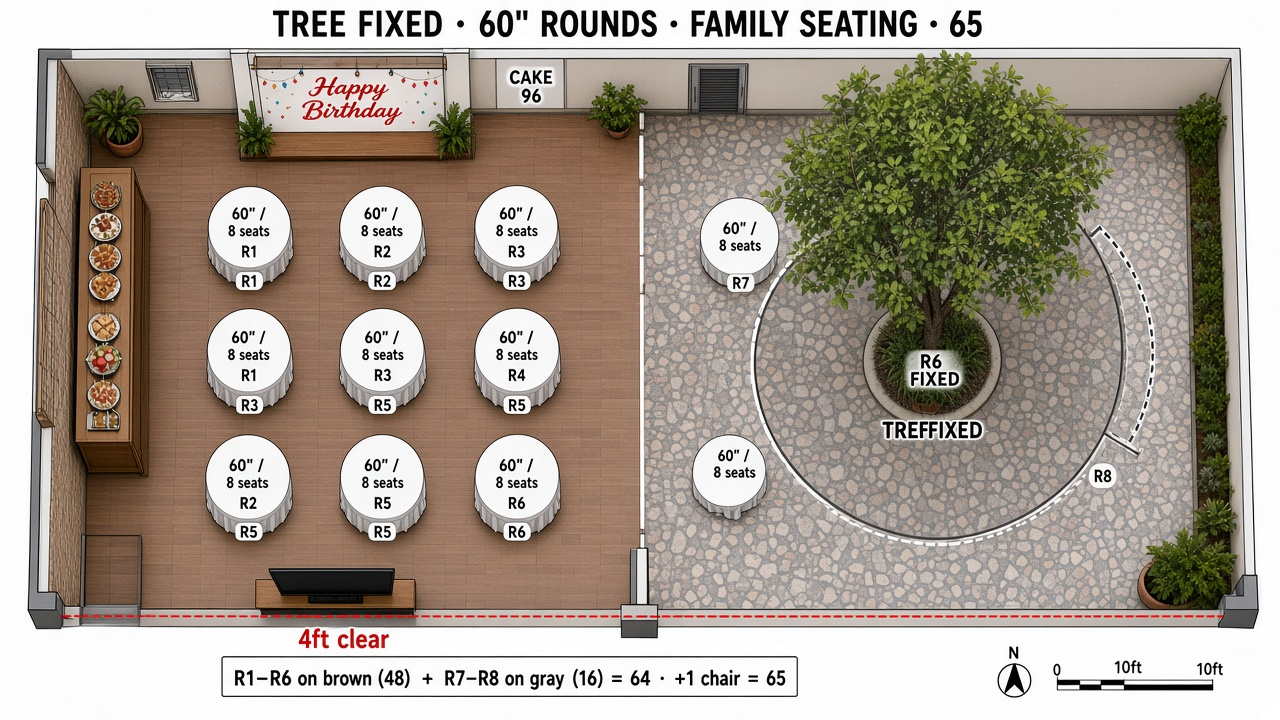
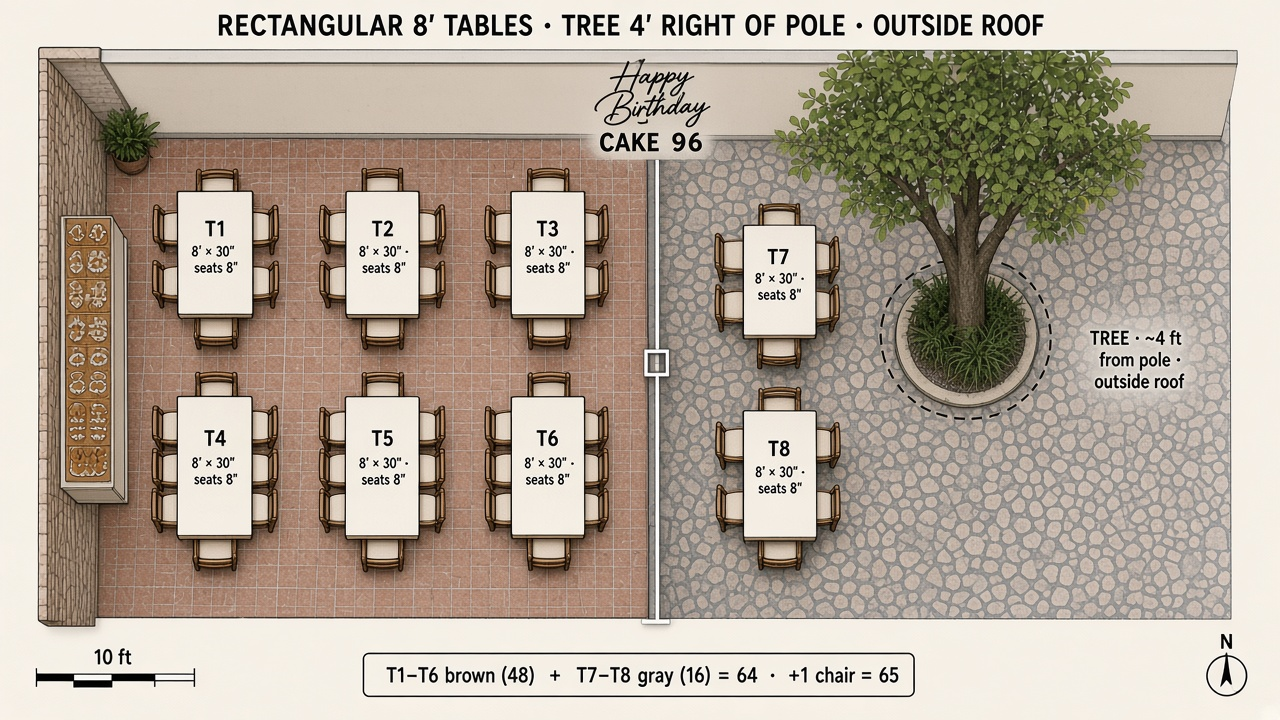
Switch to 8ft rectangular tables; fix tree outside roof
Place the tree ~4ft right of the pole on gray (not under the
roof), show the full gray courtyard, and use realistic 8×30
banquet tables for family seating toward 65 guests.

diff --git a/birthday-party-plan/index.html b/birthday-party-plan/index.html
@@ -3,7 +3,7 @@
 <head>
   <meta charset="UTF-8" />
   <meta name="viewport" content="width=device-width, initial-scale=1" />
-  <title>Grandma’s 96th — Realistic 60″ Table Plan</title>
+  <title>Grandma’s 96th — 8′ Rectangular Tables</title>
   <link rel="preconnect" href="https://fonts.googleapis.com" />
   <link rel="preconnect" href="https://fonts.gstatic.com" crossorigin />
   <link href="https://fonts.googleapis.com/css2?family=Cormorant+Garamond:ital,wght@0,500;0,600;1,500&family=Outfit:wght@300;400;500;600&display=swap" rel="stylesheet" />
@@ -26,7 +26,7 @@
     .eyebrow { font-size: 0.72rem; letter-spacing: 0.16em; text-transform: uppercase; color: var(--sage-deep); font-weight: 500; margin-bottom: 0.4rem; }
     h1 { font-family: "Cormorant Garamond", Georgia, serif; font-weight: 600; font-size: clamp(1.85rem, 3.5vw, 2.5rem); }
     h1 em { font-style: italic; color: var(--sage-deep); font-weight: 500; }
-    .lede { max-width: 44rem; margin-top: 0.65rem; color: var(--muted); font-weight: 300; font-size: 1.02rem; }
+    .lede { max-width: 46rem; margin-top: 0.65rem; color: var(--muted); font-weight: 300; font-size: 1.02rem; }
     .meta { display: flex; flex-wrap: wrap; gap: 0.45rem; margin-top: 1rem; }
     .chip { border: 1px solid var(--line); background: rgba(255,250,243,0.8); padding: 0.3rem 0.65rem; font-size: 0.75rem; }
     .chip strong { color: var(--sage-deep); }
@@ -38,7 +38,7 @@
     @media (max-width: 800px) { .grid-2 { grid-template-columns: 1fr; } }
     section.panel { background: rgba(255,250,243,0.78); border: 1px solid var(--line); padding: 1.15rem 1.25rem; }
     section.panel h2 { font-family: "Cormorant Garamond", Georgia, serif; font-size: 1.35rem; margin-bottom: 0.45rem; }
-    section.panel p, section.panel li { color: var(--muted); font-size: 0.9rem; }
+    section.panel li { color: var(--muted); font-size: 0.9rem; }
     section.panel ul { list-style: none; display: grid; gap: 0.4rem; margin-top: 0.65rem; }
     section.panel li::before { content: ""; display: inline-block; width: 0.35rem; height: 0.35rem; background: var(--blush); margin-right: 0.45rem; vertical-align: middle; }
     a.btn { display: inline-block; margin-top: 0.7rem; color: var(--sage-deep); font-size: 0.88rem; font-weight: 500; }
@@ -47,55 +47,55 @@
 </head>
 <body>
   <header>
-    <p class="eyebrow">Revised · tree fixed · realistic 60″ tables · no honor table</p>
-    <h1>Family seating for <em>65</em></h1>
+    <p class="eyebrow">Rectangular tables · tree outside roof · full gray courtyard</p>
+    <h1>8′ banquet tables for <em>65</em></h1>
     <p class="lede">
-      Tree stays in its real spot on the gray side. Everyone sits together at
-      <strong>60″ round tables</strong> (about 8 per table). No separate honor table.
+      Tree sits ~<strong>4 ft right of the pole</strong> on gray (not under the roof).
+      Dining is all <strong>8′ × 30″</strong> rectangles — family seating, full gray area shown.
     </p>
     <div class="meta">
-      <span class="chip"><strong>8×</strong> 60″ rounds</span>
-      <span class="chip"><strong>48</strong> brown + <strong>16</strong> gray</span>
-      <span class="chip"><strong>+1</strong> chair = 65</span>
-      <span class="chip"><strong>Tree</strong> fixed</span>
+      <span class="chip"><strong>8×</strong> 8′ × 30″ tables</span>
+      <span class="chip"><strong>T1–T6</strong> brown · <strong>T7–T8</strong> gray</span>
+      <span class="chip"><strong>64 + 1</strong> = 65</span>
+      <span class="chip"><strong>Tree</strong> outside roof</span>
     </div>
   </header>
 
   <main>
     <div class="plan-card">
-      <img src="./assets/patio-floor-plan-65.png" alt="Realistic floor plan with fixed tree and 60-inch rounds" />
-      <p class="caption">R1–R6 on brown (48) · R7–R8 around the fixed tree on gray (16) · +1 chair = 65. Tables drawn as 60″ to the 10 ft scale.</p>
+      <img src="./assets/patio-floor-plan-65.png" alt="Floor plan with rectangular tables and tree 4ft right of pole" />
+      <p class="caption">All eight tables shown · gray courtyard in full · tree ~4 ft right of pole outside roof · 8′ tables to scale.</p>
     </div>
 
     <div class="plan-card">
-      <img src="./assets/patio-party-spatial-render.png" alt="Render with tree in correct gray-side position" />
-      <p class="caption">Render from TV wall toward cake — tree remains on the gray side near the camera end; family rounds on brown.</p>
+      <img src="./assets/patio-party-spatial-render.png" alt="Render with rectangular tables and tree outside roof" />
+      <p class="caption">Realistic view toward the cake — banquets under the roof; tree and gray seating outside past the pole.</p>
     </div>
 
     <div class="grid-2">
       <section class="panel">
-        <h2>What changed</h2>
+        <h2>Tree &amp; gray</h2>
         <ul>
-          <li>Tree left in its <strong>real gray-side</strong> position (TV-end), not moved to the cake corner</li>
-          <li><strong>No honor table</strong> — all family at the same rounds</li>
-          <li>Tables are <strong>60″</strong> so you can judge real fit</li>
+          <li>Tree <strong>outside</strong> the roof on gray</li>
+          <li>~<strong>4 ft</strong> to the right of the support pole</li>
+          <li>T7–T8 on gray, clear of the planter</li>
+          <li>Full gray tile area drawn (not cropped)</li>
         </ul>
-        <a class="btn" href="./SETUP.md">Setup &amp; rental checklist →</a>
       </section>
       <section class="panel">
-        <h2>How 65 fits</h2>
+        <h2>Why 8′ rectangles</h2>
         <ul>
-          <li><strong>6</strong> rounds on brown under the roof → 48</li>
-          <li><strong>2</strong> rounds on gray around the tree → 16</li>
-          <li><strong>+1</strong> chair on any table → 65</li>
-          <li>Keep ~9 ft clear per table (table + chairs)</li>
+          <li>Fit the long narrow brown strip in two rows</li>
+          <li>Clearer aisles than 60″ rounds past buffet &amp; pole</li>
+          <li>8 seats each · T1–T6 = 48 · T7–T8 = 16 · +1 = 65</li>
         </ul>
+        <a class="btn" href="./SETUP.md">Rental checklist →</a>
       </section>
     </div>
   </main>
 
   <footer>
-    Measure on site before final rental counts — especially brown width past the buffet and clear ring around the tree planter.
+    Confirm on site: 4 ft from pole to tree trunk/planter edge, and brown width for two 8′ rows beside the buffet.
   </footer>
 </body>
 </html>

diff --git a/birthday-party-plan/SETUP.md b/birthday-party-plan/SETUP.md
@@ -1,34 +1,27 @@
 # Setup checklist — Grandma’s 96th (65 guests)
 
 ## Clear before setup
-- [ ] Move fridge and stacked white chairs off the **cake wall**
-- [ ] Clear sofas/coffee table from brown floor
-- [ ] Do **not** move the tree or planter
-- [ ] Keep **bathroom door** (beside TV) fully usable — 4′ clear
+- [ ] Move fridge / stored chairs off the **cake wall**
+- [ ] Clear lounge furniture from brown floor
+- [ ] Do **not** move the tree (stays ~**4 ft right of the pole**, outside roof)
+- [ ] Keep **bathroom** (beside TV) with **4′ clear**
 
-## Rent / buy (realistic sizes)
-| Item | Qty | Notes |
-|------|-----|--------|
-| **60″ round tables** | **8** | R1–R8 · seats ~8 each |
-| Chairs | **65** | 64 at tables + 1 spare/extra |
-| Buffet tables | ~16′ total | For **8 trays** (e.g. 2×8′ or 2×6′+2′) |
-| Cake table | 1×4–6′ | At backdrop only |
-| Linens | For 8 rounds + buffet + cake | Cream / wildflower |
+## Rent / buy
+| Item | Qty | Size / notes |
+|------|-----|----------------|
+| **Rectangular banquet tables** | **8** | **8′ × 30″** · 8 seats each (T1–T8) |
+| Chairs | **65** | 64 + 1 extra |
+| Buffet tables | ~16′ total | **8 trays** |
+| Cake table | 1×4–6′ | Backdrop only |
+| Linens | 8 dining + buffet + cake | Cream / wildflower |
 | Backdrop + balloon arch | 1 | Boho Spring Garden |
-| String lights | As needed | Under roof |
 
-## Place in this order
-1. **Cake wall** — backdrop, arch, cake (keep photo floor clear ~5′)
-2. **TV wall** — leave **4′ clear**; no chairs in bathroom door swing
-3. **Buffet** — brick wall; plates near TV → 8 trays toward cake
-4. **R1–R6** — 60″ rounds on **brown** only (2 columns × 3 rows)
-5. **R7–R8** — 60″ rounds on **gray**, **around** the fixed tree (not on the planter)
+## Place in order
+1. Cake wall décor + photo clear  
+2. TV wall 4′ clear / bathroom path  
+3. Buffet on brick wall (plates near TV → trays toward cake)  
+4. **T1–T6** on brown — two parallel rows of three, long way cake↔TV  
+5. **T7–T8** on **full gray** courtyard — outside roof, clear of tree (~4 ft from pole)
 
 ## Seat math
-**R1–R6 (48) + R7–R8 (16) = 64 · +1 chair = 65**
-
-## Day-of flow
-- Family seating at all rounds (no separate head table)
-- Buffet one-way — don’t block bathroom
-- Photos at cake wall — keep aisle open
-- Tree and pole stay as fixed obstacles
+**T1–T6 (48) + T7–T8 (16) = 64 · +1 chair = 65**

diff --git a/birthday-party-plan/README.md b/birthday-party-plan/README.md
@@ -1,29 +1,31 @@
-# Grandma’s 96th — Realistic seating plan
+# Grandma’s 96th — Rectangular table plan
 
-## What’s fixed in this revision
-- **Tree stays put** — circular planter on the gray side toward the TV end (not moved to the cake corner)
-- **No honor table** — everyone sits together at the same family tables
-- **Realistic size** — **60″ rounds** (5 ft), ~8 seats each, drawn to the 10 ft scale
+## Tree (fixed)
+- **Outside the roof**, on the **gray** side  
+- About **4 ft to the right** of the white roof support pole  
+- Do not place tables on the planter  
 
-## Capacity (honest)
+## Tables (realistic)
+All dining tables: **8′ × 30″** banquet rectangles · **8 seats** each (3+3 on long sides, 1+1 on ends).  
+No separate honor table — family seating at every table.
 
 | Zone | Tables | Seats |
 |------|--------|------:|
-| Brown under roof | R1–R6 × 60″ | 48 |
-| Gray around fixed tree | R7–R8 × 60″ | 16 |
-| Extra chair on any table | — | 1 |
-| **Total** | **8 rounds** | **65** |
+| Brown under roof | T1–T6 (two rows of three) | 48 |
+| Gray courtyard (full area shown) | T7–T8 clear of tree | 16 |
+| Extra chair | — | 1 |
+| **Total** | **8× 8′ tables** | **65** |
 
-Each 60″ table needs about **9 ft** clear including chairs. Photo zone at the cake (~5 ft) and bathroom clear at the TV (~4 ft) are kept empty of dining tables.
+## Still locked
+- Cake wall ↔ TV wall on brown under roof  
+- Bathroom 4′ clear beside TV  
+- Brown ≈ gray width  
+- 8-tray buffet on brick/stone wall  
 
-## Layout rules
-- Brown ≈ gray width; brown under roof; gray outside past the pole  
-- TV on camera wall faces cake; bathroom beside TV  
-- 8-tray buffet on brick/stone wall (brown side)  
-- All family seating — no separate head table  
+## Why rectangles here
+In this long, relatively narrow covered strip, 8′ banquets in two rows leave clearer aisles past the buffet and pole than 60″ rounds, while still seating 8 per table.
 
 ## Files
-- [Floor plan](./assets/patio-floor-plan-65.png)
-- [Render](./assets/patio-party-spatial-render.png)
-- [Setup checklist](./SETUP.md)
-- [Browser view](./index.html)
+- [Floor plan](./assets/patio-floor-plan-65.png)  
+- [Render](./assets/patio-party-spatial-render.png)  
+- [Setup](./SETUP.md) · [Browser](./index.html)  
